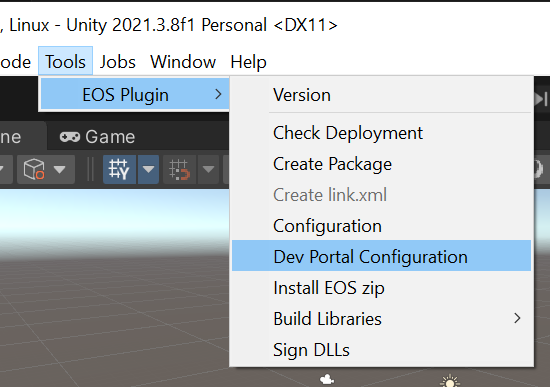
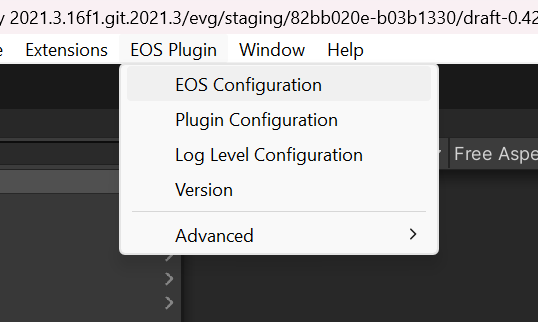
docs: Replacing text and links

diff --git a/com.playeveryware.eos/Documentation~/getting_started_guide/README.md b/com.playeveryware.eos/Documentation~/getting_started_guide/README.md
@@ -140,7 +140,7 @@ In the EOS Plugin for Unity project, the provided code with the plugin will give
 The Samples come with scenes that demonstrate the usage of the EOS Plugin for Unity's Manager classes for each Sample's domain.
 
 Next, follow [our documentation regarding how to configure the plugin](/com.playeveryware.eos/Documentation~/configure_plugin.md).
-Inside of Unity (using the menu bar), navigate to `Tools` -> `EOS Plugin` -> `EOS Configuration`.
+Inside of Unity (using the menu bar), navigate to `EOS Plugin` -> `EOS Configuration`.
 
 <p align="center" width="100%"><img src="/com.playeveryware.eos/Documentation~/getting_started_guide/plugin_eosconfiguration.png" alt="The EOS Configuration popup can be filled out using information in the Product Settings page."/><br/>
 <em>The EOS Configuration popup can be filled out using information in the Product Settings page.</em></p>

diff --git a/com.playeveryware.eos/Documentation~/easy_anticheat_configuration.md b/com.playeveryware.eos/Documentation~/easy_anticheat_configuration.md
@@ -12,7 +12,7 @@ The EOS plugin provides a method of automating EAC installation as part of the b
 
 ## Steps
 1) Open your Unity project with the plugin installed.
-2) Open the editor preferences settings for the plugin, which is avaiable in `Tools -> EOS Plugin -> Configuration`. All EAC options are located under the Tools subheader.
+2) Open the editor preferences settings for the plugin, which is avaiable in `EOS Plugin -> Configuration`. All EAC options are located under the Tools subheader.
 3) Enable EAC build steps by checking the `Use EAC` toggle.
 4) Set `Path to EAC private key` and `Path to EAC Certificate` to the private and public keys you previously downloaded, respectively.
 5) (Recommended) Set `Path to EAC splash image` to a 800x450 PNG that will display in the EAC bootstrapper.

diff --git a/com.playeveryware.eos/Documentation~/frequently_asked_questions.md b/com.playeveryware.eos/Documentation~/frequently_asked_questions.md
@@ -135,7 +135,7 @@ Overlay errors are most likely due to not having the overlay installed, this is 
 
 Some native functionality are required for platform specific needs.  
 
-To get these dependent libraries, use the platform library build tool in the plugin at `Tools > EOS Plugin > Build Library > [Target Platform]`
+To get these dependent libraries, use the platform library build tool in the plugin at `EOS Plugin > Advanced > Build Library > [Target Platform]`
 
 Or to install the libraries manually, go to the `lib/NativeCode` folder, find the target platform, and *build the `.sln`* or *`run the makefile`* in the folder.
 

diff --git a/com.playeveryware.eos/Documentation~/configure_plugin.md b/com.playeveryware.eos/Documentation~/configure_plugin.md
@@ -5,7 +5,7 @@
 To function, the plugin needs some information from your EOS project. Be sure to read the Epic Documentation on [getting started](https://dev.epicgames.com/docs/epic-account-services/getting-started?sessionInvalidated=true) with Epic Online Services.
 
 1) Open your Unity project with the integrated EOS Unity Plugin. 
-2) In the Unity editor, Open ```Tools -> EOS Plugin -> Dev Portal Configuration```.
+2) In the Unity editor, Open ```EOS Plugin -> EOS Configuration```.
 
     ![EOS Config Menu](/com.playeveryware.eos/Documentation~/images/dev-portal-configuration-editor-menu.png)
 

diff --git a/com.playeveryware.eos/Documentation~/upgrading_to_new_versions_of_eos.md b/com.playeveryware.eos/Documentation~/upgrading_to_new_versions_of_eos.md
@@ -57,7 +57,7 @@ new plugin can be generated.
 These steps are for upgrading the EOS SDK as a maintainer of the repo.
 There is a tool that one can use install new versions of the SDK, located under
 
-`Tools -> EOS Plugin -> Install EOS Zip`
+`EOS Plugin -> Install EOS Zip`
 
 It requires a JSON description file to direct it where to put the files in the zip,
 and a zip file that contains the SDK. The latest version of the SDK can be downloaded from

diff --git a/com.playeveryware.eos/Documentation~/dev_env/Ubuntu_Development_Environment.md b/com.playeveryware.eos/Documentation~/dev_env/Ubuntu_Development_Environment.md
@@ -95,7 +95,7 @@ Once Unity is open:
 1. Go to File ➝ Build Settings
 2. Switch the platform to "Dedicated Server."
 3. Click on the button labeled "Player Settings..." at the bottom left.
-4. Go to Tools ➝ EOS Automated Test Settings
+4. Go to EOS Plugin ➝ Advanced ➝ EOS Automated Test Settings
 5. Select the previously created `Builds/Server` directory for the "Test Server Directory" field.
 
 ## Help! I ran out of disk space!

diff --git a/com.playeveryware.eos/Documentation~/creating_the_upm_package.md b/com.playeveryware.eos/Documentation~/creating_the_upm_package.md
@@ -8,7 +8,7 @@ This tool (while a bit rough around the edges) allows for the generation of cust
 
 ## Steps to generate a UPM package
 
-1. Go to `Tools -> EOS Plugin -> Create Package`.
+1. Go to `EOS Plugin -> Advanced -> Create Package`.
 
     <img src="images/create-package-menu.png" width="300" />
 
